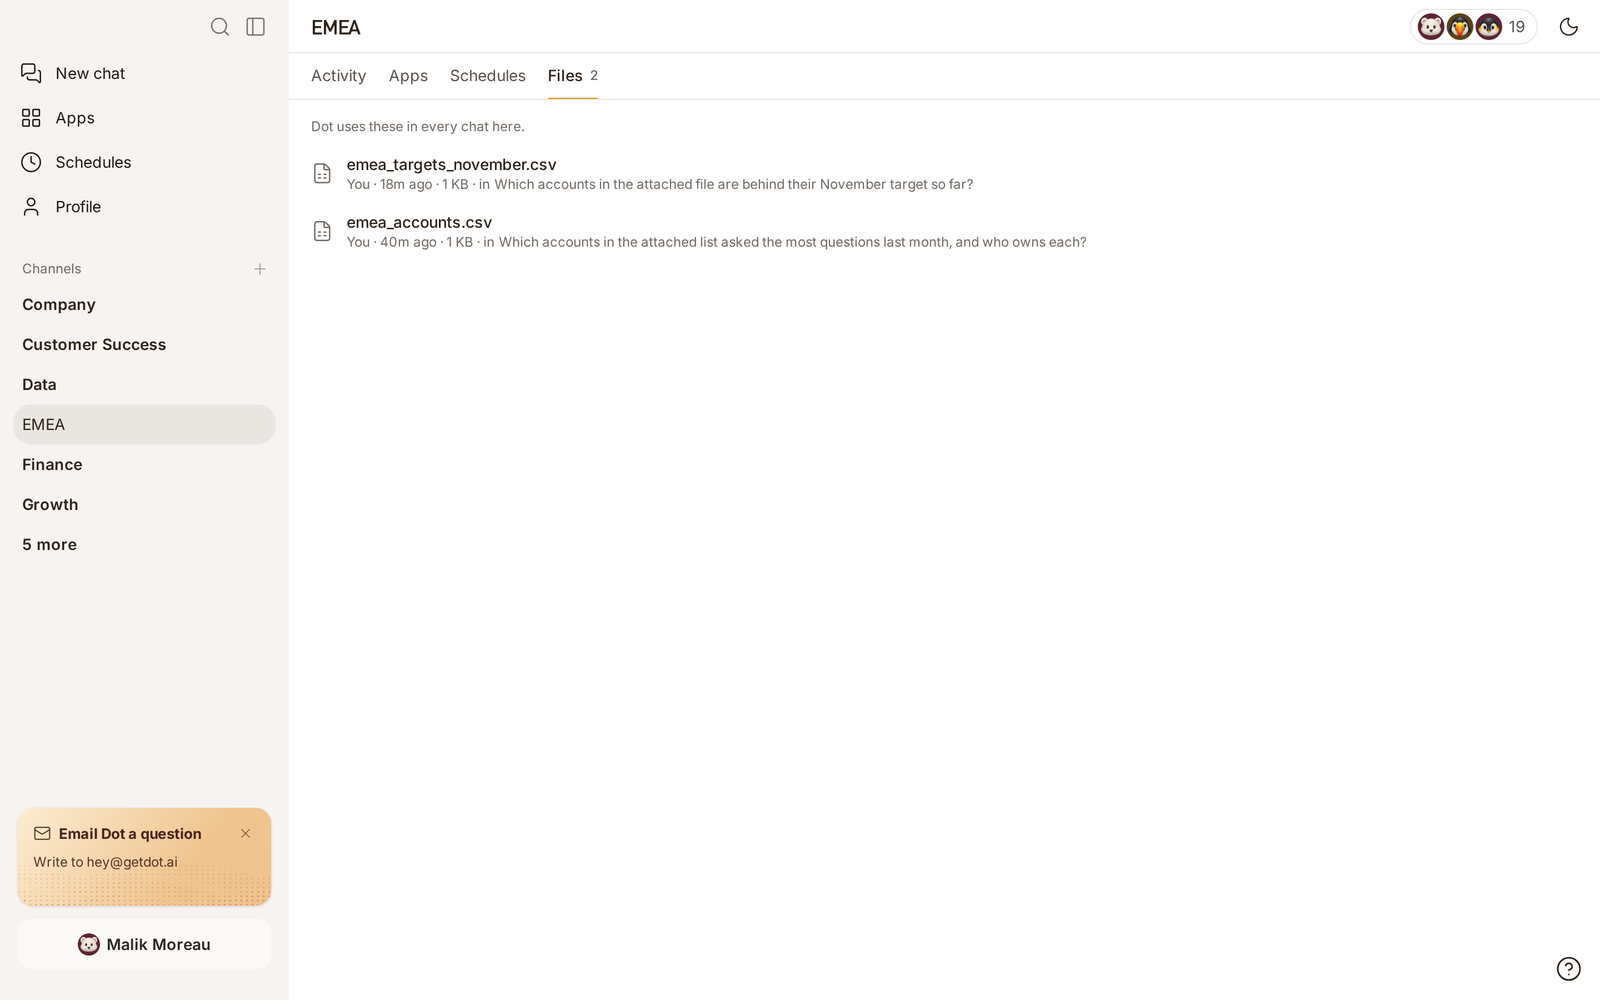
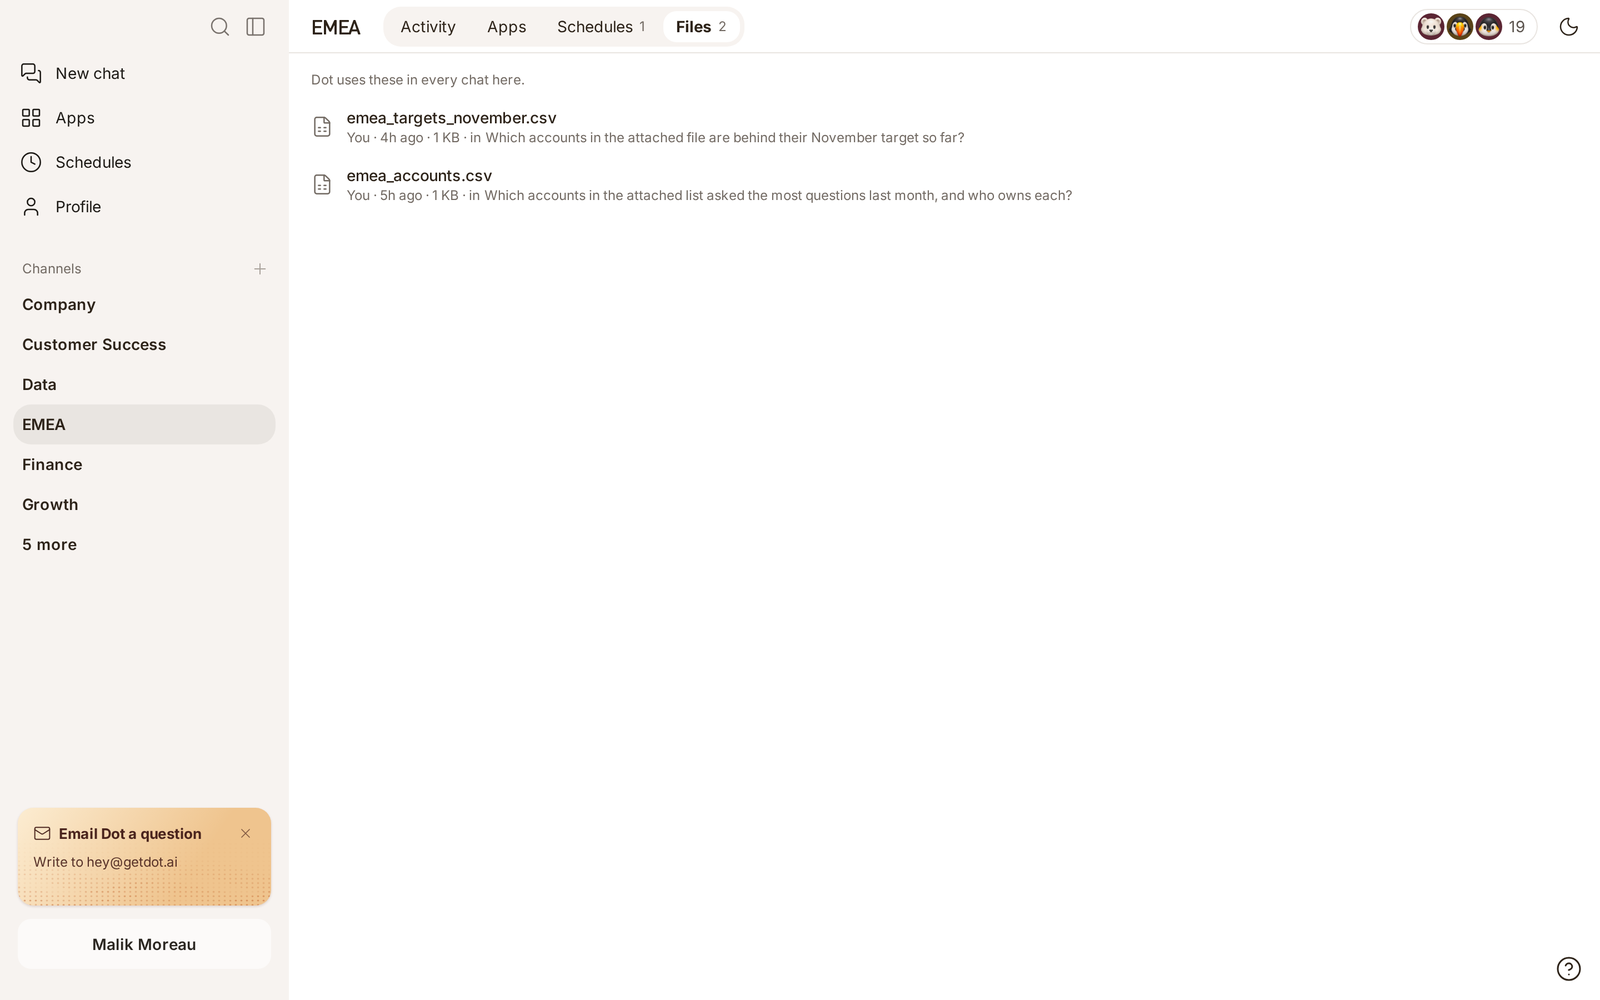
docs: a run's post shows what it found; tabs beside the name
The channel's tabs moved beside its name, a schedule's post now
leads with what its run found, and the Schedules tab lists how
often each runs and when next. Pictures retaken on the preview.

diff --git a/dot/dot/whats-dot/teams.md b/dot/dot/whats-dot/teams.md
@@ -6,7 +6,7 @@ description: Ask Dot together in channels that hold a team's chats, apps and sch
 
 A channel is your team's place in Dot. It holds the team's questions to Dot, its apps, the schedules that deliver them and the files the team gave Dot. Each has a tab: **Activity**, **Apps**, **Schedules** and **Files**. On **Activity**, you ask Dot in the box at the bottom, as in a Slack channel.
 
-<figure><img src="../../.gitbook/assets/team-channel.png" alt="A channel with its apps at the top, each question as a post with its replies, and a box to ask Dot"><figcaption><p>A channel shows its apps, then each question with its replies.</p></figcaption></figure>
+<figure><img src="../../.gitbook/assets/team-channel.png" alt="A channel's Activity tab: each question as a post with its replies, a schedule's run with what it found, and a box to ask Dot"><figcaption><p>A channel's activity: each question with its replies, and what a schedule found.</p></figcaption></figure>
 
 ## Ask Dot in a channel
 
@@ -23,7 +23,7 @@ Each question in the channel shows who asked it and when. Below it, a line says 
 
 * A channel's name is bold in the sidebar when something happened since you last looked at it.
 * In the channel, a **New** line sits above what came after your last visit.
-* A gold dot on a question's replies means its thread has news you haven't opened.
+* A dot on a question's replies means its thread has news you haven't opened.
 
 ## Who is in a channel
 
@@ -107,9 +107,9 @@ To make the sidebar wider, for long chat titles or channel names, drag its right
 
 ## Schedules in a channel
 
-The **Schedules** tab lists the schedules that deliver the channel's chats and apps, and whose data access each one runs with. When a schedule runs, Dot posts in the channel that it ran. Click the post to see what it sent. On the **Schedules** page your own schedules come first, then one row for each channel you are in, holding its schedules.
+The **Schedules** tab lists the schedules that deliver the channel's chats and apps: how often each runs, whose data access it runs with, and when it runs next. When a schedule runs, Dot posts what it found in the channel. Click the post to see everything it sent. On the **Schedules** page your own schedules come first, then one row for each channel you are in, holding its schedules.
 
-* People who can edit the channel can pause and resume a teammate's schedule. It keeps running as its owner.
+* People who can edit the channel can pause and resume a teammate's schedule from the **⋮** at the end of its row. It keeps running as its owner.
 * Editing a teammate's schedule makes it yours. From then on it runs with your data access, and the editor says so before you save.
 * People who can only view the channel see what runs and as whom, but not who receives it.
 
